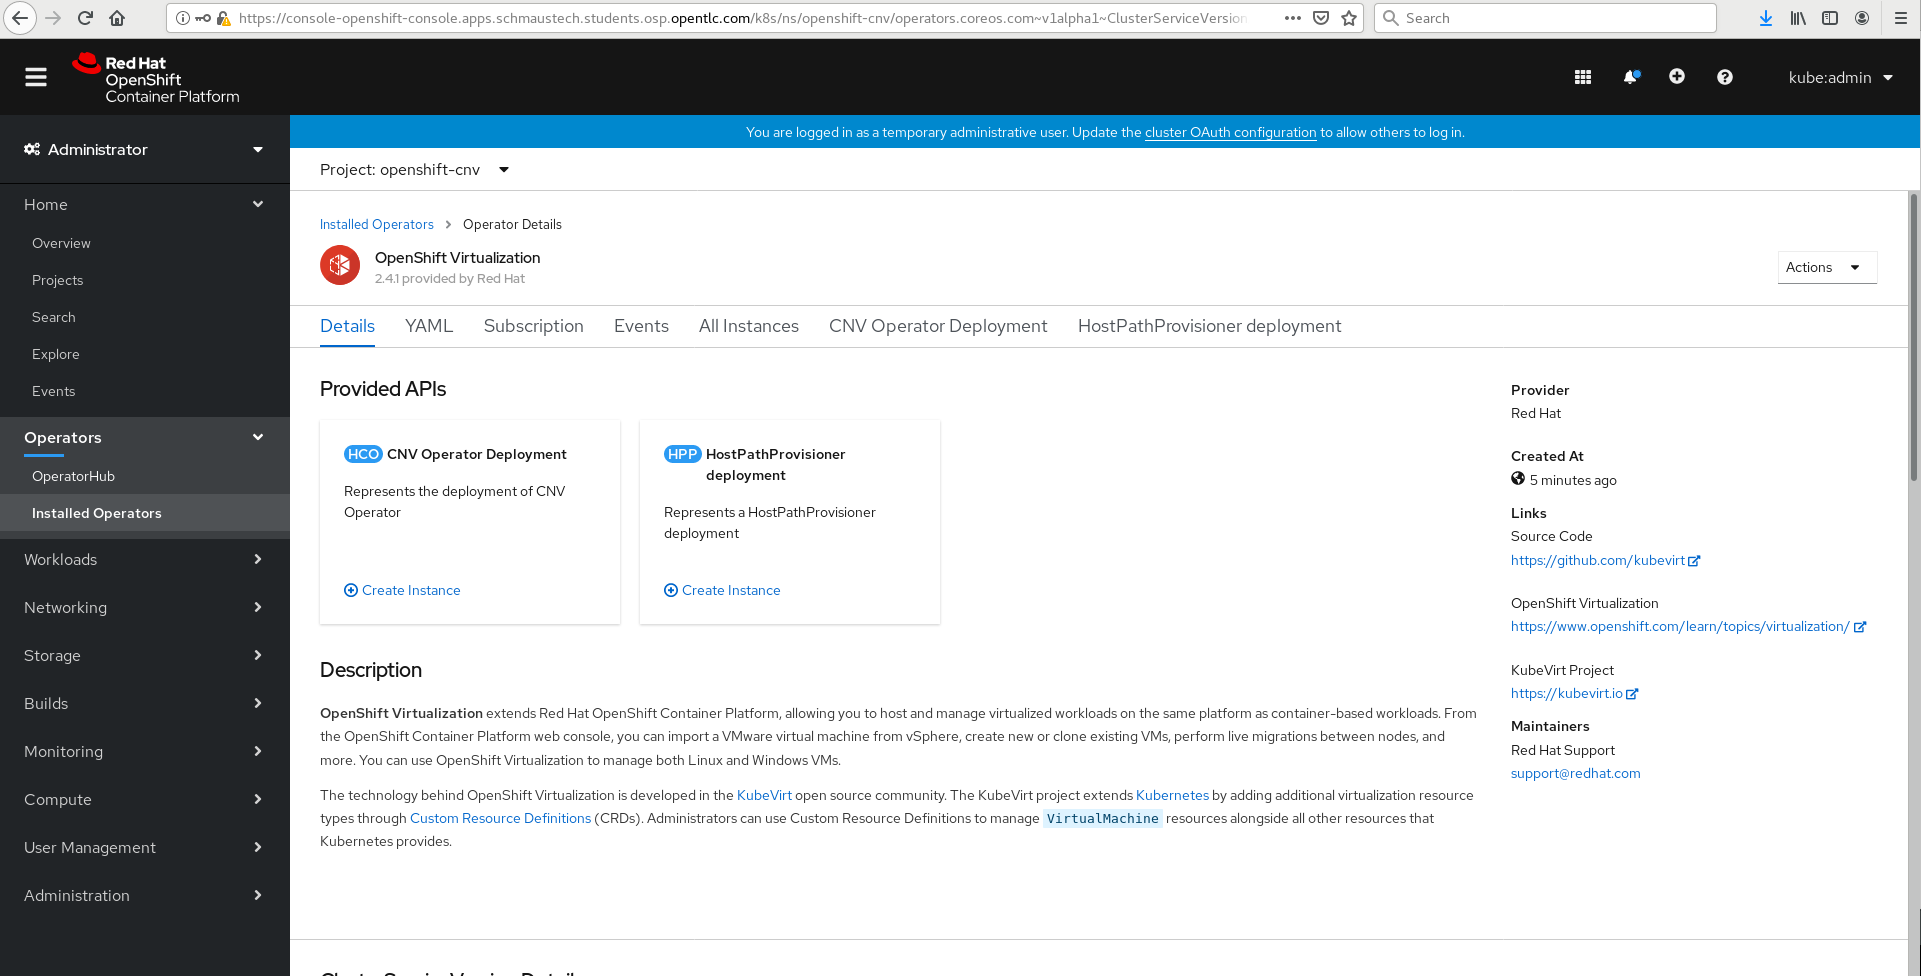
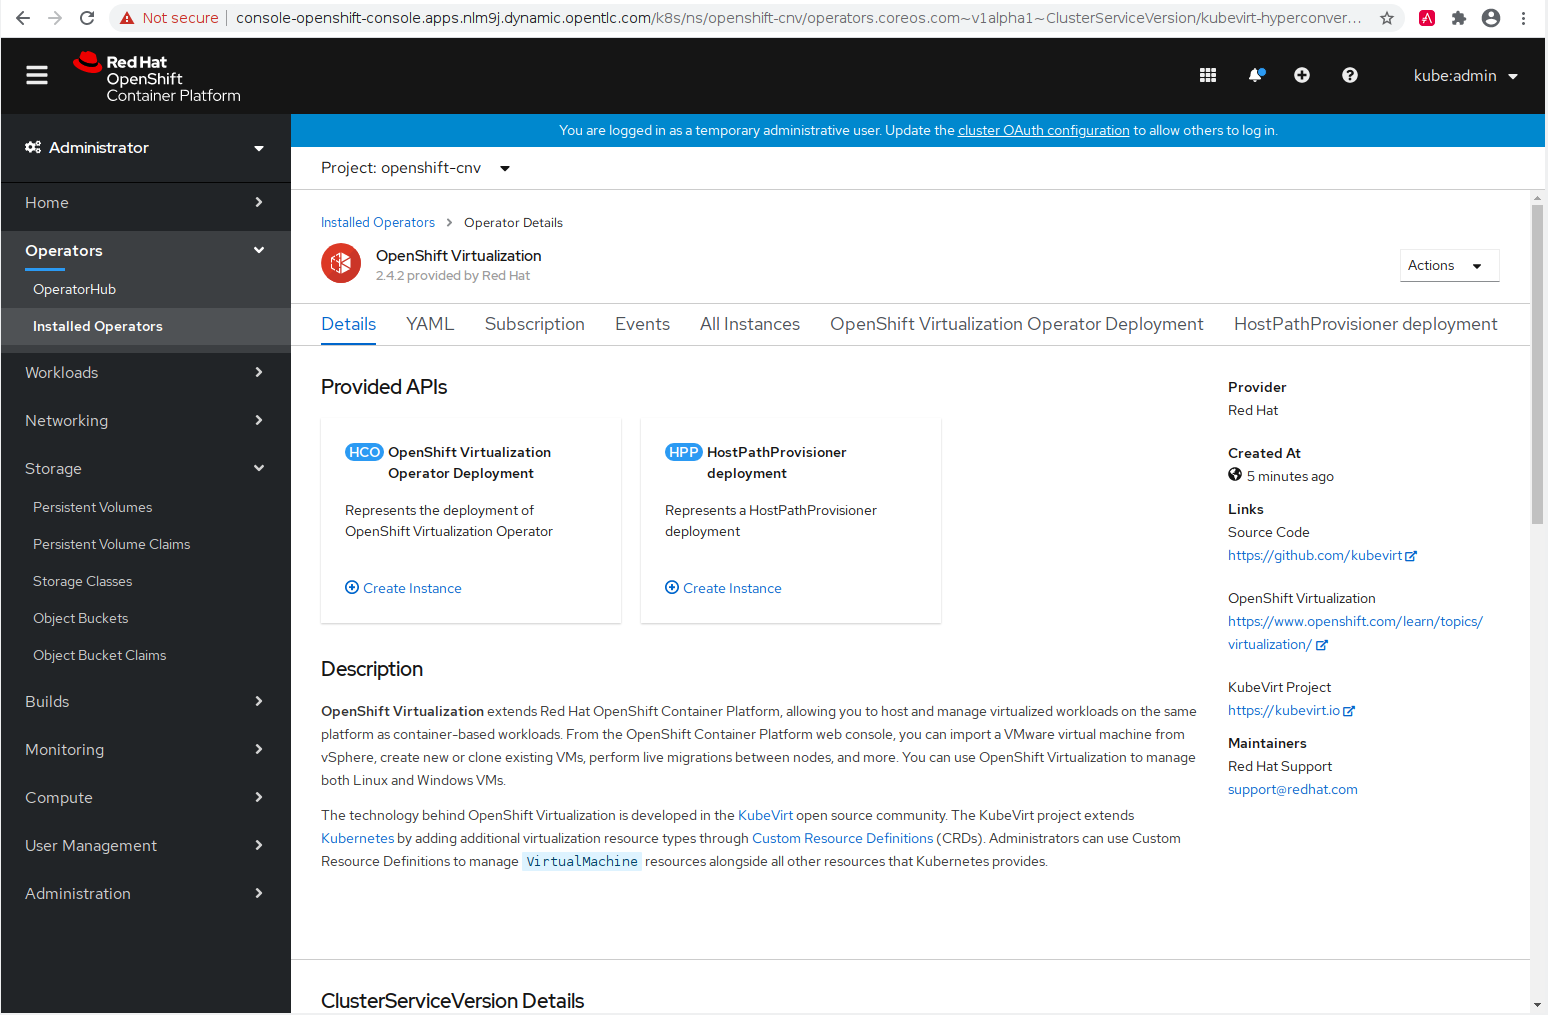
Change CNV to OpenShift Virtualization (incl screenshot)

Changed region(s): [[0.0, 0.0, 1.0, 1.0], [0.3411, 0.584, 0.4031, 0.6148]]

diff --git a/08-deploycnv.md b/08-deploycnv.md
@@ -23,7 +23,7 @@ Next we need to actually deploy all of the CNV components that this subscription
 
 <img  border="1" src="img/ocp-virt-hco-1.png"/>
 
-From here, select '**Create Instance**' on the '**CNV Operator Deployment**' button; this will deploy all of the necessary components that are required to support OpenShift virtualisation. The next page will show you the operators details - we can leave this as the defaults and select '**Create**' at the bottom. 
+From here, select '**Create Instance**' on the '**OpenShift Virtualization Operator Deployment**' button; this will deploy all of the necessary components that are required to support OpenShift virtualisation. The next page will show you the operators details - we can leave this as the defaults and select '**Create**' at the bottom.
 
 <img  border="1" src="img/ocp-virt-hco-2.png">
 
